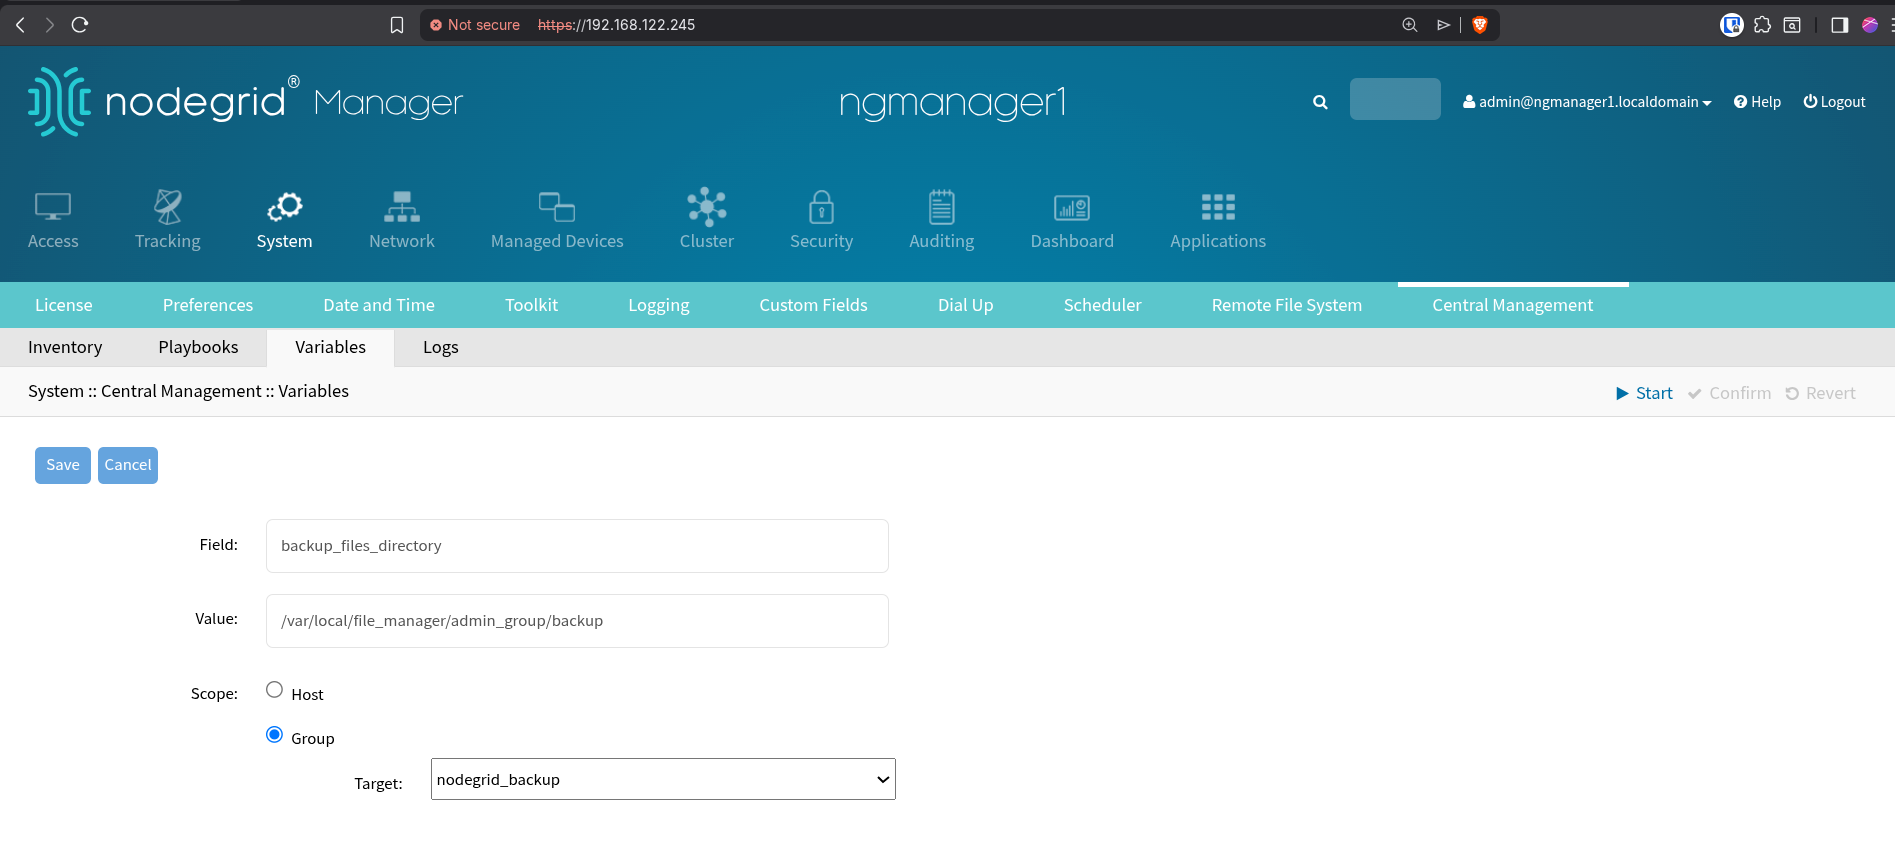
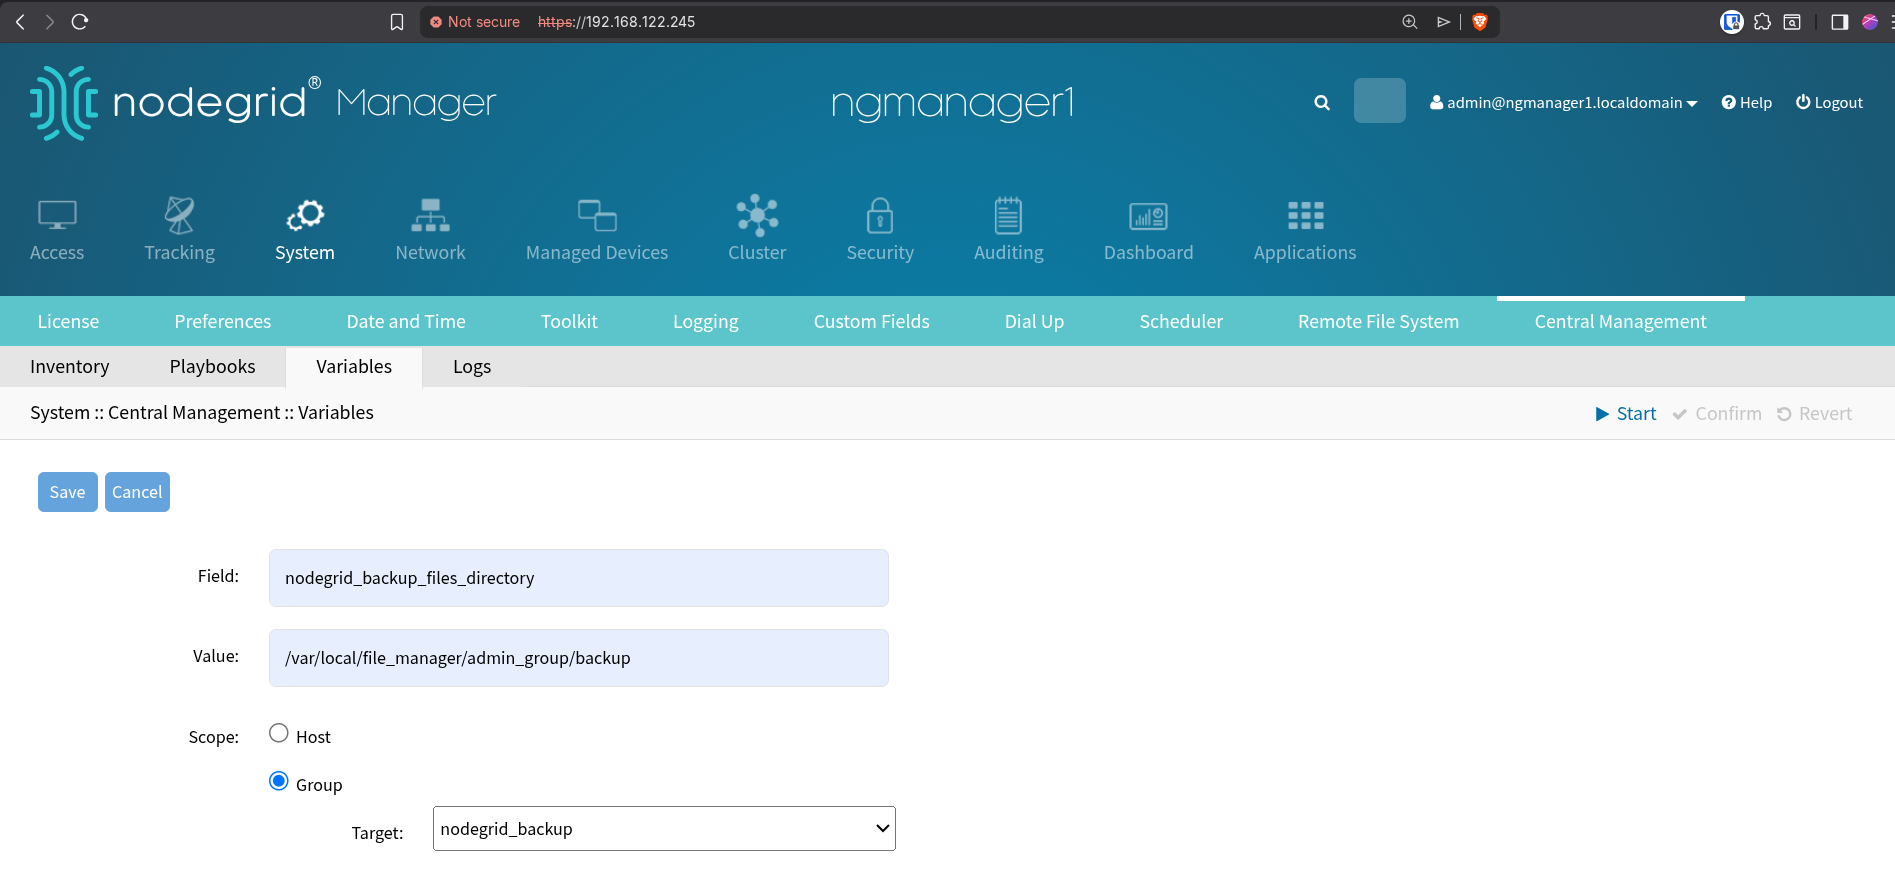
Managed Devices report - Export managed devices to CSV module considering the case of 100k records or more. The results are streamed directly into a CSV file, considering a user defined scroll size. - Playbook md_export_report_to_csv.yaml - Readme update
Nodegrid Backup
- Update the playbook ng_backup.yaml to properly configure path permissions

diff --git a/collections/ansible_collections/zpe/nodegrid/plugins/modules/nodegrid_elasticsearch_export.py b/collections/ansible_collections/zpe/nodegrid/plugins/modules/nodegrid_elasticsearch_export.py
@@ -1,0 +1,130 @@
+#!/usr/bin/python
+# -*- coding: utf-8 -*-
+
+# Copyright: (c) 2024, ZPE Systems <zpesystems.com>
+# GNU General Public License v3.0+ (see COPYING or https://www.gnu.org/licenses/gpl-3.0.txt)
+
+from ansible.module_utils.basic import AnsibleModule
+import json
+import csv
+import ssl
+from urllib.request import Request, urlopen
+
+def _build_base_url(host, port):
+    return "https://{0}:{1}".format(host, port)
+
+
+def make_request(url, method, client_cert, client_key, data=None):
+    # Setup SSL context with client certificate authentication
+    ctx = ssl.create_default_context()
+    ctx.check_hostname = False
+    ctx.verify_mode = ssl.CERT_NONE  # Keeps it tolerant of self-signed cluster certs
+    ctx.load_cert_chain(certfile=client_cert, keyfile=client_key) # Injects mTLS certs
+    headers = {"Content-Type": "application/json"}
+    req = Request(url, headers=headers, method=method)
+    if data:
+        req.data = json.dumps(data).encode('utf-8')
+    with urlopen(req, context=ctx) as response:
+        return json.loads(response.read().decode('utf-8'))
+
+
+def run_module():
+    module_args = dict(
+        es_host=dict(type='str', default='localhost'),
+        es_port=dict(type='int', default=9200),
+        es_timeout=dict(type='int', default=60),
+        es_index=dict(type='str', required=True),
+        es_fields=dict(type='list', default={}),
+        es_scroll_size=dict(type='int', default=5000),
+        csv_file_path=dict(type='str', required=True),
+        ca_cert=dict(type='str', default='/etc/opensearch/config/root-ca.pem'),
+        client_cert=dict(type='str', default='/etc/opensearch/config/admin.pem'),
+        client_key=dict(type='str', default='/etc/opensearch/config/admin-key.pem'),
+        verify_ssl=dict(type='bool', default=False)
+        )
+
+    result = dict(
+        changed=False,
+        msg=''
+    )
+
+    module = AnsibleModule(
+        argument_spec=module_args,
+        supports_check_mode=True
+    )
+
+    # Extract parameters
+    es_host = module.params['es_host']
+    es_port = module.params['es_port']
+    es_timeout = module.params['es_timeout']
+    es_index = module.params['es_index']
+    es_fields = module.params['es_fields']
+    es_scroll_size = module.params['es_scroll_size']
+    csv_file_path = module.params['csv_file_path']
+    ca_cert = module.params['ca_cert']
+    client_cert = module.params['client_cert']
+    client_key = module.params['client_key']
+    verify_ssl = module.params['verify_ssl']
+
+
+    try:
+        # 1. Initialize Scroll Context
+        init_url = f"{_build_base_url(es_host,es_port)}/{es_index}/_search?scroll=1m"
+        init_body = {
+            "size": es_scroll_size,
+            "_source": es_fields,
+            "query": {"match_all": {}}
+        }
+    
+        response = make_request(init_url, "POST", client_cert, client_key, data=init_body)
+        scroll_id = response.get("_scroll_id")
+        hits = response.get("hits", {}).get("hits", [])
+        total_exported = 0
+        # 2. Stream directly to CSV file
+        with open(csv_file_path, mode='w', newline='', encoding='utf-8') as csv_file:
+            writer = csv.writer(csv_file, quoting=csv.QUOTE_MINIMAL)
+            # Write CSV Header
+            writer.writerow(es_fields)
+            
+            while hits:
+                # Write current batch
+                for hit in hits:
+                    source = hit.get("_source", {})
+                    # Extract fields safely, handling missing values
+                    row = [source.get(field, "") for field in es_fields]
+                    writer.writerow(row)
+                
+                total_exported += len(hits)
+                
+                # Fetch next batch
+                scroll_url = f"{_build_base_url(es_host,es_port)}/_search/scroll"
+                scroll_body = {
+                    "scroll": "1m",
+                    "scroll_id": scroll_id
+                }
+                response = make_request(scroll_url, "POST", client_cert, client_key, data=scroll_body)
+                scroll_id = response.get("_scroll_id")
+                hits = response.get("hits", {}).get("hits", [])
+    
+        # 3. Clear Scroll Context
+        if scroll_id:
+            clear_url = f"{_build_base_url(es_host,es_port)}/_search/scroll"
+            try:
+                make_request(clear_url, "DELETE", client_cert, client_key, data={"scroll_id": [scroll_id]})
+            except Exception:
+                pass # Fail silently during cleanup if context expired
+                
+    except Exception as e:
+        module.fail_json(msg=f"OpenSearch Export data failed. Error={e}", **result)
+
+    result['msg'] = f"Records exported: {total_exported}. CSV file: {csv_file_path}"
+
+    module.exit_json(**result)
+
+
+def main():
+    run_module()
+
+
+if __name__ == '__main__':
+    main()

diff --git a/examples/playbooks/system-roles/Managed_Devices_report/README.md b/examples/playbooks/system-roles/Managed_Devices_report/README.md
@@ -138,13 +138,13 @@ gatesr | SUCCESS => {
 The playbook [md_report.yaml](md_report.yaml) configures the OpenSearch index on the Nodegrid device with the `reports` role, and also imports the managed devices from the targed Nodegrid devices. To execute the playbook:
 
 ```bash
-ansible-playbook md_report.yaml --limit md_report
+ansible-playbook md_report.yaml --tags all,never --limit md_report
 ```
 <details>
     <summary> Playbook execution output example </summary>
 
 ```
-ansible@ngmanager1:/etc/ansible/playbooks$ ansible-playbook md_report.yaml --limit md_report
+ansible@ngmanager1:/etc/ansible/playbooks$ ansible-playbook md_report.yaml --tags all,never --limit md_report
 
 PLAY [Build the central Nodegrid device report] *******************************************************************************
 
@@ -292,15 +292,25 @@ Access the Web UI of the `ngmanager1` device and execute the following:
 
 # Update/refresh the Managed Devices data
 
-The following playbook execution will import the managed devices information, and not import the dashboard.
+The following playbook execution will import the managed devices information.
 
 ```bash
-ansible-playbook md_report.yaml --limit md_report --skip-tags import_dashboard
+ansible-playbook md_report.yaml --limit md_report
 ```
 
 # Export the Managed Devices data into a CSV file.
 
-The following playbook will export the Managed Devices data into a CSV file which can be found at `/var/local/file_manager/admin_group/managed_devices_report.csv`.
+The playbook [md_export_report_to_csv.yaml](md_export_report_to_csv.yaml) will export the Managed Devices data into a CSV file. The following variables are required to be defined:
+
+|Variable|Value|Comment|
+|:---:|:---:|:---:|
+| es_index | "spconfig_system_report" | OpenSearch index to be exported|
+| es_fields |  ["report_synced_at", "searchable_nodegrid host_value", "searchable_type_value", "searchable_local serial port_value", "searchable_name_value", "searchable_status_value", "searchable_mode_value", "searchable_baud rate_value", "searchable_groups_value"]| Fields to be selected |
+| es_scroll_size | 5000 | OpenSearch records scroll size |
+| csv_file_path | "/var/local/file_manager/admin_group/managed_devices_report.csv" | CSV file path |
+
+
+To execute the playbook:
 
 ```bash
 ansible-playbook md_export_report_to_csv.yaml --limit ngmanager1

diff --git a/examples/playbooks/system-roles/Nodegrid_Backups/Readme.md b/examples/playbooks/system-roles/Nodegrid_Backups/Readme.md
@@ -136,7 +136,7 @@ gatesr | SUCCESS => {
 
 ## Execute the Backup Process
 
-The playbook [ng_backup.yaml](ng_backup.yaml) creates a backup for each of the Nodegrid devices and stores them in the Control Node. This playbook has a variable named `backup_files_directory` which defines the main path for the backup files (default value: `/var/local/file_manager/admin_group/backup`). Furthermore, the playbook executes the backup filtering logic on the Control Node according to the requirements defined at the beginning of this document. 
+The playbook [ng_backup.yaml](ng_backup.yaml) creates a backup for each of the Nodegrid devices and stores them in the Control Node. This playbook has a variable named `nodegrid_backup_files_directory` which defines the main path for the backup files (default value: `/var/local/file_manager/admin_group/backup`). Furthermore, the playbook executes the backup filtering logic on the Control Node according to the requirements defined at the beginning of this document. 
 
 To execute the playbook:
 
